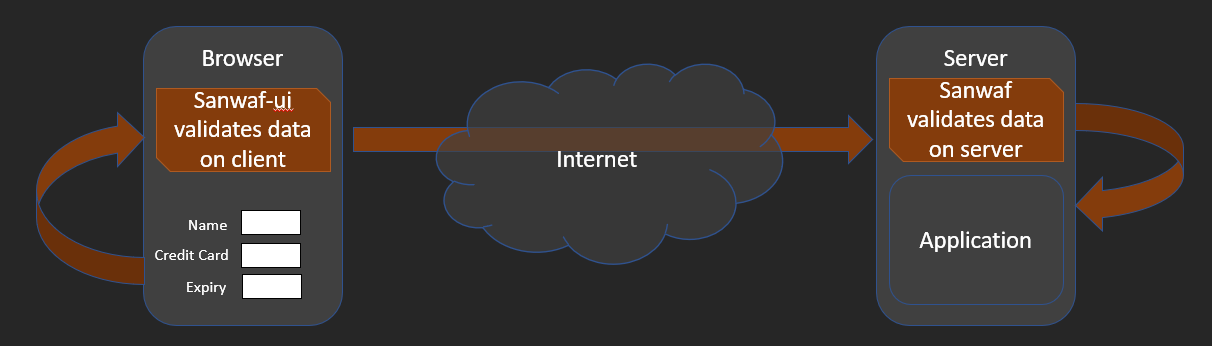
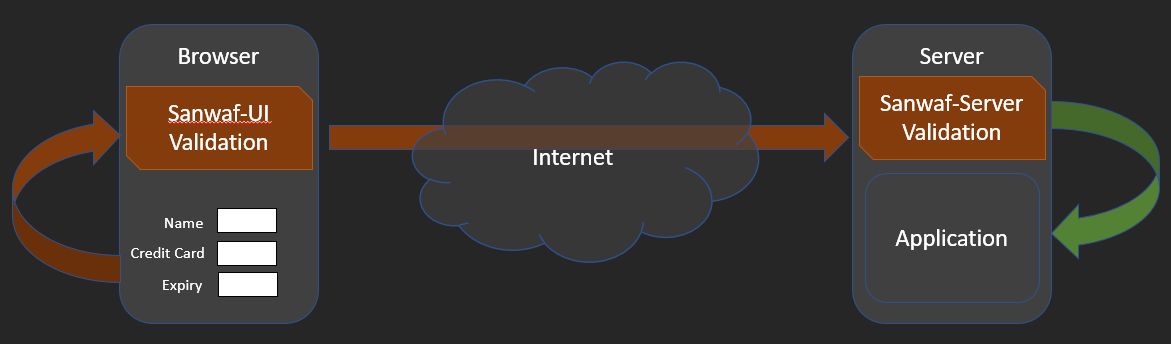
cleanup

diff --git a/sanwaf-ui-guide.html b/sanwaf-ui-guide.html
@@ -7,13 +7,13 @@
 
     <link rel="stylesheet" type="text/css" href="sanwaf-ui-guide.css" media="screen" />
     
-    <!-- Sanwaf-ui code - STEP 1. import sanwaf-ui.js -->
+    <!-- Sanwaf-UI code - STEP 1. import sanwaf-ui.js -->
     <script src='sanwaf-ui-min-latest.js'></script>
 
-    <!-- Sanwaf-ui code - STEP 2. import sanwaf-ui.css (optional see STEP 2a. below) -->
+    <!-- Sanwaf-UI code - STEP 2. import sanwaf-ui.css (optional see STEP 2a. below) -->
     <link rel="stylesheet" type="text/css" href="sanwaf-ui.css" media="screen" />  
     
-    <!-- Sanwaf-ui code - STEP 2a. to use a use custom css see <div id="sanwafUiConfig" .../> for how to override settings
+    <!-- Sanwaf-UI code - STEP 2a. to use a use custom css see <div id="sanwafUiConfig" .../> for how to override settings
     	                           for this example we define a  custom.css file to be used instead of the sanwaf-ui.css file
     	                           to use this custom file, uncomment the div sanwafUiConfig below and review the 2nd block -->
     <link rel="stylesheet" type="text/css" href="custom.css" media="screen" />  
@@ -24,13 +24,13 @@
     </style> 
   </head>
 
-    <!-- Sanwaf-ui code - STEP 3. optional. configure sanwaf-ui -->
-    <!-- NOTE that if you uncomment the following div block, the CSS specified in 'Sanwaf-ui code - STEP 2a.' (above) 
-         and the div id wrapper & div id for the sanwaf errors specified in 'Sanwaf-ui code - STEP 2a.' (below)  will be used -->
-    <!-- Sanwaf-ui code - 1st block below - override sanwaf-ui default actions -->
-    <!-- Sanwaf-ui code - 2nd block below - override default class's used by sanwaf-ui -->
-    <!-- Sanwaf-ui code - 3rd block below - override sanwaf-ui default attribute error messages -->
-    <!-- Sanwaf-ui code - 4th block below - override default data type error messages -->
+    <!-- Sanwaf-UI code - STEP 3. optional. configure sanwaf-ui -->
+    <!-- NOTE that if you uncomment the following div block, the CSS specified in 'Sanwaf-UI code - STEP 2a.' (above) 
+         and the div id wrapper & div id for the sanwaf errors specified in 'Sanwaf-UI code - STEP 2a.' (below)  will be used -->
+    <!-- Sanwaf-UI code - 1st block below - override sanwaf-ui default actions -->
+    <!-- Sanwaf-UI code - 2nd block below - override default class's used by sanwaf-ui -->
+    <!-- Sanwaf-UI code - 3rd block below - override sanwaf-ui default attribute error messages -->
+    <!-- Sanwaf-UI code - 4th block below - override default data type error messages -->
 	<!-- 
     <div id="sanwafUiConfig" style="display:none"
       data-sw-numErrorsToDisplay="-1" 
@@ -73,12 +73,12 @@
 	-->
     
   <body>
-    <h1 id="top" style="text-align: center;">Sanwaf-ui.js Demo</h1>
-    <h2 id="whatissanwaf">What is Sanwaf &amp; Sanwaf-ui?</h2>
+    <h1 id="top" style="text-align: center;">Sanwaf User Guide</h1>
+    <h2 id="whatissanwaf">What is Sanwaf-Server &amp; Sanwaf-UI?</h2>
     <table class="table-instructions">
-      <tr><td>Sanwaf-server is a Sanitation Web Application Firewall. Sanwaf-server runs on the server</td></tr>
-      <tr><td>Sanwaf-ui is a Sanitation Web Application Firewall that runs on the browser</td></tr>
-      <tr><td>Sanwaf-server &amp; Sanwaf-ui can be used independently or together</td></tr>
+      <tr><td><a href="https://github.com/bernardo1024/Sanwaf-Server" target=”_blank”>Sanwaf-Server</a> is a Sanitation Web Application Firewall. Sanwaf-Server runs on the server</td></tr>
+      <tr><td><a href="https://github.com/bernardo1024/Sanwaf-UI" target=”_blank”>Sanwaf-UI</a> is a Sanitation Web Application Firewall that runs on the browser</td></tr>
+      <tr><td>Sanwaf-Server &amp; Sanwaf-UI can be used independently or together</td></tr>
       <tr><td>when used together, they provide a code-free declarative validation system on both the client &amp; server</td></tr>
       <tr><td></td></tr>
     </table>
@@ -87,14 +87,14 @@
     <br/>
     <h2>Sample Form</h2>
     
-    <!-- Sanwaf-ui code - uses the default values from the sanwafuiconfig hiddent element for wrapper & error table -->
+    <!-- Sanwaf-UI code - uses the default values from the sanwafuiconfig hiddent element for wrapper & error table -->
     <div id="sanwafuierrorwrapper" style="display: none;">
       <b>Errors Detected</b>
       <div id="sanwafuierrortable"></div>
       <input type="button" value="hide errors" onclick="document.getElementById('sanwafuierrorwrapper').style.display='none';"/>
     </div>
     
-    <!-- Sanwaf-ui code - STEP 2a. Part 2. See <div id="sanwafUiConfig" .../> above for how to override settings in the 1st block
+    <!-- Sanwaf-UI code - STEP 2a. Part 2. See <div id="sanwafUiConfig" .../> above for how to override settings in the 1st block
     							   This allows you to specify any div id wrapper and div id for the sanwaf errors to be displayed
     							   The following div will be used if you uncomment the div sanwafUiConfig above -->
     <div id="pageErrors" style="display: none;">
@@ -103,7 +103,7 @@
       <input type="button" value="hide errors" onclick="document.getElementById('pageErrors').style.display='none';"/>
     </div>
     
-    <!-- Sanwaf-ui code - STEP 4. add sanwaf attributes (data-sw-*) to configure elements;  -->
+    <!-- Sanwaf-UI code - STEP 4. add sanwaf attributes (data-sw-*) to configure elements;  -->
     <form id="testform" method="post" action="./someEndPoint">
       <table class="table-instructions">
         <tr>
@@ -112,7 +112,7 @@
           <td><b>Description</b></td>
         </tr>
         <tr>
-          <!-- Sanwaf-ui code - Note that the label's 'for' attribute is used to set the label association to the input
+          <!-- Sanwaf-UI code - Note that the label's 'for' attribute is used to set the label association to the input
                                 See next the input below to associate the label using an attribute in the input itself -->	
           <td><label for="telephone">Telephone number</label></td>  
           <td><input type="text" id="telephone" name="telephone" size="20" data-sw-display="Telephone Number" data-sw-type="f{(###) ###-####}" data-sw-required="true" /></td>
@@ -120,14 +120,14 @@
         </tr>
         <tr>
           <td><label id="zipPostalCodeLabel">Zip/Postal Code</label></td>  
-          <!-- Sanwaf-ui code - Note the above label does not use the label's 'for' attribute.  
+          <!-- Sanwaf-UI code - Note the above label does not use the label's 'for' attribute.  
           						See below the 'data-sw-label-id' attribute that associates a label to the input.
           						Also note the use of using multiple formats in a single format field  -->	
           <td><input type="text" id="zippostalcode" name="zippostalcode" size="20" data-sw-display="Zip or Postal Code" data-sw-type="f{#####||#####-####||A#A-#A#}" data-sw-label-id="zipPostalCodeLabel" data-sw-required="true" data-sw-err-msg="Format must be 5 digit or 5-4 digit US Zip Code format, or Canadian Postal Code Format"/></td>
           <td>Required. format: "##### || #####-#### || A#A-#A#"</td>
         </tr>
         <tr>
-          <!-- Sanwaf-ui code - Password fields should use the type 'o' (OPEN) to allow any characters.  
+          <!-- Sanwaf-UI code - Password fields should use the type 'o' (OPEN) to allow any characters.  
                                 Type 's' will run regex's on the server that might interfere with a password.
                                 Note that password field does not set the data-sw-display attribute, 
                                 so the associated label will be used instead.  
@@ -138,43 +138,43 @@
         </tr>
         <tr>
           <td><label id="confirmPasswordLabel">Confirm Password</label></td>
-          <!-- Sanwaf-ui code - Note the 'data-sw-related' attribute that makes the 'confirmPassword' required if the password element is entered. 
+          <!-- Sanwaf-UI code - Note the 'data-sw-related' attribute that makes the 'confirmPassword' required if the password element is entered. 
           					    Additionally, the values must equal each other  as the relationship is "=" -->  
           <td><input type="password" id="confirmPassword" name="confirmPassword" size="20" data-sw-type="o" data-sw-related="password:=" data-sw-max-length="30" data-sw-min-length="8" data-sw-label-id="confirmPasswordLabel" /></td>
           <td>Max = 10 chars, Min = 4 chars. Required only if above field entered</td>
         </tr>
         <tr>
           <td><label for="haveCar">Do you own a car?</label></td>
-          <!-- Sanwaf-ui code - Note that the 'haveCar' field only uses the element name attribute and not the id  -->	
+          <!-- Sanwaf-UI code - Note that the 'haveCar' field only uses the element name attribute and not the id  -->	
           <td><select size="1" name="haveCar" ><option value="Yes">Yes</option><option value="No" selected="selected">No</option></select></td>
           <td>If value selected = &quot;yes&quot; Car Model must be entered</td>
         </tr>
         <tr>
           <td><label for="carModel">Car Model</label></td>
-          <!-- Sanwaf-ui code - Note the 'data-sw-related' attribute that makes the 'carModel' element required if the 'haveCar' element have the value of 'Yes'. 
+          <!-- Sanwaf-UI code - Note the 'data-sw-related' attribute that makes the 'carModel' element required if the 'haveCar' element have the value of 'Yes'. 
           						Here we are using the element name, but you can use either element name or element id. -->  
           <td><input type="text" name="carModel" size="20" data-sw-display="Car Model" data-sw-type="s" data-sw-max-length="30" data-sw-min-length="0" data-sw-related="haveCar:Yes" data-sw-err-msg="Must be entered if you own a car" /></td>
           <td>If car model =  &quot;yes&quot;, this element is required</td>
         </tr>
         <tr>
           <td><label for="creditcard">Credit Card number</label></td>
-          <!-- Sanwaf-ui code - Note that a format data type would be better for visa numbers, but here we are illustrating the numeric data type -->  
+          <!-- Sanwaf-UI code - Note that a format data type would be better for visa numbers, but here we are illustrating the numeric data type -->  
           <td><input type="text" id="creditcard" name="creditcard" size="20" data-sw-display="Credit Card Number" data-sw-type="f{#[3,4,5,6]###-####-####-####}" data-sw-err-msg="Must be Numeric 16 digits and expiry must be supplied" /></td>
           <td>Must have the format: #[3,4,5,6]###-####-####-####</td>
         </tr>
         <tr>
           <td><label for="visaExpirationDate">Expiry</label></td>
-          <!-- Sanwaf-ui code - Note that the expiry date is required if the visa number is entered (see 'data-sw-related' attribute below) -->  
+          <!-- Sanwaf-UI code - Note that the expiry date is required if the visa number is entered (see 'data-sw-related' attribute below) -->  
           <td><input type="text" id="visaExpirationDate" name="visaExpirationDate" size="20" data-sw-display="Expiry" data-sw-type="f{#[1-12] / #[yy-yy(+10)]}" data-sw-related="visa" /></td>
           <td>Must have a valid format of #[1-12] / #[yy-yy(+10)].  Required if Visa number is entered</td>
         </tr>
         <tr>
           <td><label for="amount">Purchase Amount</label></td>
-          <!-- Sanwaf-ui code - Note the 'data-sw-max-value' and 'data-sw-min-value' that limits the range that can be entered -->  
+          <!-- Sanwaf-UI code - Note the 'data-sw-max-value' and 'data-sw-min-value' that limits the range that can be entered -->  
           <td><input type="text" id="amount" name="amount" size="20" data-sw-display="Purchase Amount" data-sw-type="n" data-sw-max-value="1000" data-sw-min-value="10" /></td>
           <td>Must be numeric value between 10-1000 </td>
         </tr>
-        <!-- Sanwaf-ui code - STEP 5. call sanwaf-ui to validate form: isSanwafUiFormValid(testform)  -->
+        <!-- Sanwaf-UI code - STEP 5. call sanwaf-ui to validate form: isSanwafUiFormValid(testform)  -->
         <tr>
         	<td></td><td><input type="button" value="Validate" onClick="return isSanwafUiFormValid(testform)"/></td>
         	<td>To custom manage errors,<br/>call the '<b>sanwafGetFormErrors(form)</b>' method: <input type="button" value="get errors" onClick="alert(sanwafGetFormErrors(testform))"/><br/>A json string of errors will be returned &amp; no UI rendering will occur<br/>Use the '<b>sanwafGetElementErrors(elem)</b>' method to retrieve the json errors for an element</td></tr>
@@ -212,7 +212,7 @@
 		}
       }
     </script>
-    <h3>Change Sanwaf-ui Error Behavior</h3>
+    <h3>Change Sanwaf-UI Error Behavior</h3>
     <table class="table-compact">
       <tr>
         <td><input type="checkbox" id="hoverOnLabel" onClick="togleDisplayType(true)" checked/><label for="hoverOnLabel">hover on Label</label></td>
@@ -230,16 +230,16 @@
     
     <br/>
     <br/>
-    <h1>Implementing Sanwaf &amp; Sanwaf-ui</h1>
+    <h1>Implementing Sanwaf-Server &amp; Sanwaf-UI</h1>
     <table class="table-instructions">
-      <tr><td>1.</td><td>Configure Sanwaf-ui on html pages (instruction in this guide)</td></tr>
-      <tr><td>2.</td><td><a href="https://github.com/bernardo1024/Sanwaf-UI-2-Server" target="_blank">Run the Sanwaf-ui-2-server script</a> to generate XML consumed by Sanwaf-Server for server-side validation</td></tr>
+      <tr><td>1.</td><td>Configure Sanwaf-UI on html pages (instruction in this guide)</td></tr>
+      <tr><td>2.</td><td><a href="https://github.com/bernardo1024/Sanwaf-UI-2-Server" target="_blank">Run the Sanwaf-UI-2-server script</a> to generate XML consumed by Sanwaf-Server for server-side validation</td></tr>
       <tr><td>3.</td><td><a href="https://github.com/bernardo1024/SanWaf" target="_blank">Add Sanwaf-Server</a> to your application</td></tr>
     </table>
     <br/>
     <br/>
-    <h2>Configuring Sanwaf-ui</h2>
-    View the source of this page to and search for "Sanwaf-ui code - STEP" to see examples of configuring sanwaf-ui (all 6 steps) 
+    <h2>Configuring Sanwaf-UI</h2>
+    View the source of this page to and search for "Sanwaf-UI code - STEP" to see examples of configuring Sanwaf-UI (all 6 steps) 
     <br/>
     <br/>
     <img src="sanwaf-ui-components.png" width="50%" height="50%"> 
@@ -250,13 +250,13 @@
         <td>
           <table  class="table-instructions-inner">
             <tr><td></td><td>&lt;script src="<a href="sanwaf-ui.js" target="_blank">sanwaf-ui.js</a>"&gt;&lt;/script&gt;</td></tr>
-            <tr><td></td><td>this makes the sanwaf-ui code available for use on your page</td></tr>
+            <tr><td></td><td>this makes the Sanwaf-UI code available for use on your page</td></tr>
           </table>
         </td>
       </tr>
       <tr>
         <td>2.</td>
-        <td>import sanwaf-ui CSS (optional)</td>
+        <td>import Sanwaf-UI CSS (optional)</td>
         <td>
           <table  class="table-instructions-inner">
             <tr><td></td><td>&lt;link rel="stylesheet" type="text/css" href="<a href="sanwaf-ui.css" target="_blank">sanwaf-ui.css</a>" media="screen" /&gt;</td></tr>
@@ -266,18 +266,18 @@
       </tr>
       <tr>
         <td>3.</td>
-        <td>Configure sanwaf-ui (optional)</td>
+        <td>Configure Sanwaf-UI (optional)</td>
         <td>
           <table  class="table-instructions-inner">
-            <tr><td></td><td>add a hidden element named "<a href="#sanwafuiconfig"><b>sanwafuiconfig</b></a>" &amp; configure Sanwaf-ui</td></tr>
-            <tr><td></td><td>if you want to override sanwaf-ui defaults, this element must be declared</td></tr>
+            <tr><td></td><td>add a hidden element named "<a href="#sanwafuiconfig"><b>sanwafuiconfig</b></a>" &amp; configure Sanwaf-UI</td></tr>
+            <tr><td></td><td>if you want to override Sanwaf-UI defaults, this element must be declared</td></tr>
 
           </table>
         </td>
       </tr>
       <tr>
         <td>4.</td>
-        <td>Set <a href="#sanwafuitags">sanwaf-ui attributes</a> per element</td>
+        <td>Set <a href="#sanwafuitags">Sanwaf-UI attributes</a> per element</td>
         <td>
           <table  class="table-instructions-inner">
             <tr><td>&lt;input</td><td>type="text" id="carModel" size="20" </td></tr>
@@ -288,13 +288,13 @@
             <tr><td></td><td><b>data-sw-required</b>="true"</td></tr>
             <tr><td></td><td><b>data-sw-related</b>="haveCar:Yes"</td></tr>
             <tr><td></td><td><b>data-sw-err-msg</b>="Car Model must be entered if you own a car"</td></tr>
-            <tr><td>/&gt;</td><td>&lt;!-- see below for <a href="#sanwafuitags">sanwaf-ui attribute</a> details --&gt;</td></tr>
+            <tr><td>/&gt;</td><td>&lt;!-- see below for <a href="#sanwafuitags">Sanwaf-UI attribute</a> details --&gt;</td></tr>
           </table>
         </td>
       </tr>
       <tr>
         <td>5a.</td>
-        <td>Call Sanwaf-ui method to validate form</td>
+        <td>Call Sanwaf-UI method to validate form</td>
         <td>
           <table  class="table-instructions-inner">
             <tr><td>isSanwafUiFormValid(form)</td><td>checks the elements on a form for errors. returns true/false</td></tr>
@@ -304,7 +304,7 @@
       </tr>
       <tr>
         <td>5b.</td>
-        <td>OR Call Sanwaf-ui method to get errors in JSON format</td>
+        <td>OR Call Sanwaf-UI method to get errors in JSON format</td>
         <td>
           <table  class="table-instructions-inner">
             <tr><td>sanwafGetFormErrors(form)</td><td>checks the elements on a form for errors. returns all errors found in JSON format</td></tr>
@@ -314,11 +314,11 @@
       </tr>
       <tr>
         <td>6.</td>
-        <td>Initialize sanwaf-ui</td>
+        <td>Initialize Sanwaf-UI</td>
         <td>
           <table  class="table-instructions-inner">
             <tr><td>&lt;script&gt; initSanwafui(); &lt;/script&gt;</td></tr>
-            <tr><td>script scans page for sanwaf-ui attributes setting events on elements</td></tr>
+            <tr><td>script scans page for Sanwaf-UI attributes setting events on elements</td></tr>
           </table>
         </td>
       </tr>
@@ -326,7 +326,7 @@
     <br/>
     <br/>
     <h2 id="sanwafuiconfig">The "sanwafuiconfig" Hidden Element</h2>
-    A hidden "<b>sanwafuiconfig</b>" element is used to configure the Sanwaf-ui behavior
+    A hidden "<b>sanwafuiconfig</b>" element is used to configure the Sanwaf-UI behavior
     <br/>
     <br/>
     <b>Optional Control Attributes</b>
@@ -336,8 +336,8 @@
       <tr><td>data-sw-numErrorsToDisplay</td><td>Number of error messages to display.  Specify -1 to display all errors<br/><b>Defaults to:</b> -1</td></tr>
       <tr><td><a href="#sanwafuiactions">data-sw-errorActions</a></td><td>Action(s)s to take when an error is found on a submit<br/><b>Defaults to:</b> hoverOnLabel,hoverShowLabel,colorLabel,colorInput</td></tr>
       <tr><td><a href="#sanwafuiactions">data-sw-blurActions</a></td><td>Action(s) to take when a field is blurred<br/><b>Defaults to:</b> hoverOnLabel,hoverShowLabel,colorLabel,colorInput</td></tr>
-      <tr><td>data-sw-showOnPageElementId</td><td>Optional element to wrap the sanwaf-ui errors that will be made visible if errors are detected<br/><b>Defaults to:</b> sanwafuierrorwrapper</td></tr>
-      <tr><td>data-sw-showOnPageSanwafTableElementId</td><td>Optional element to set a table of sanwaf-ui errors (configurable by css)<br/><b>Defaults to:</b> sanwafuierrortable</td></tr>
+      <tr><td>data-sw-showOnPageElementId</td><td>Optional element to wrap the Sanwaf-UI errors that will be made visible if errors are detected<br/><b>Defaults to:</b> sanwafuierrorwrapper</td></tr>
+      <tr><td>data-sw-showOnPageSanwafTableElementId</td><td>Optional element to set a table of Sanwaf-UI errors (configurable by css)<br/><b>Defaults to:</b> sanwafuierrortable</td></tr>
     </table>
 
     <b>Optional CSS Class Overrides</b>
@@ -350,8 +350,8 @@
       <tr><td>data-sw-tooltipClass</td><td>The tooltip css class applied to the label</td></tr>
       <tr><td>data-sw-tooltipTextClass</td><td>Tooltip text css specification</td></tr>
       <tr><td>data-sw-sanwafErrorTableClass</td><td>When displaying errors on the page, a table in inserted using this css class</td></tr>
-      <tr><td>data-sw-sanwafErrorTableTdKeyClass</td><td>The css class for the key section of the sanwaf-ui error table</td></tr>
-      <tr><td>data-sw-sanwafErrorTableTdDescClass</td><td>The css class for the value section of the sanwaf-ui error table</td></tr>
+      <tr><td>data-sw-sanwafErrorTableTdKeyClass</td><td>The css class for the key section of the Sanwaf-UI error table</td></tr>
+      <tr><td>data-sw-sanwafErrorTableTdDescClass</td><td>The css class for the value section of the Sanwaf-UI error table</td></tr>
     </table>
     
     <b>Optional Error Message Attributes</b> (default values will be used if not specified)
@@ -390,15 +390,15 @@
       <tr><td><b>Action</b></td><td><b>Description</b></td></tr>
       <tr><td>hoverOnLabel</td><td>Add a hover element to you label that is associated with the 'for=' attribute of the label<br/>The hover is configurable via the .sawafuiTooltip elements in the  sanwafy-ui.css file</td></tr>
       <tr><td>hoverShowLabel</td><td>Include the associated label text in the hover message</td></tr>
-      <tr><td>colorLabel</td><td>Change the color of the label to the value specified in the .sanwafuiLabel css configuration in the sanwaf-ui.css file</td></tr>
-      <tr><td>colorInput</td><td>Change the color of the input element to the value specified in the .sanwafinput css configuration in the sanwaf-ui.css file</td></tr>
+      <tr><td>colorLabel</td><td>Change the color of the label to the value specified in the .sanwafuiLabel css configuration in the Sanwaf-UI.css file</td></tr>
+      <tr><td>colorInput</td><td>Change the color of the input element to the value specified in the .sanwafinput css configuration in the Sanwaf-UI.css file</td></tr>
       <tr><td>showOnPage</td><td>Element id to be made visible if an error is detected (to provide custom message)</td></tr>
-      <tr><td>showOnPageSanwafTable</td><td>Element id to insert the Sanwaf-ui table of errors</td></tr>
-      <tr><td>alertWithPopup</td><td>Show an alert dialog containing the Sanwaf-ui errors</td></tr>
+      <tr><td>showOnPageSanwafTable</td><td>Element id to insert the Sanwaf-UI table of errors</td></tr>
+      <tr><td>alertWithPopup</td><td>Show an alert dialog containing the Sanwaf-UI errors</td></tr>
     </table>
     <br/>
     <br/>
-    <h2 id="sanwafuitags">Sanwaf-ui Elements Attributes</h2>
+    <h2 id="sanwafuitags">Sanwaf-UI Elements Attributes</h2>
     <table class="table-instructions">
       <tr><td><b>Attribute</b></td><td><b>Description</b></td></tr>
       <tr><td>data-sw-display</td><td>Name Associated with the widget that will be used for display in error messages.</td></tr>
@@ -551,7 +551,7 @@
     </table>
     <br/>    
     
-    <h3>Test Sanwaf-ui Data Types</h3>
+    <h3>Test Sanwaf-UI Data Types</h3>
     <form id="datatypes" method="post" action="./someEndPoint">
       <table class="table-compact-normal-font">
         <tr>
@@ -617,7 +617,7 @@
     <table class="table-instructions-inline-block">
       <tr><td>The Format data type sets the element to use a Format</td><td></td></tr>
       <tr><td>A Format is way to best fit a user's entry into a mask</td><td></td></tr>
-      <tr><td>Sanwaf-ui automatically sets an oninput event handler to elements that have the format data type.  the event handler formats as the user enters data</td><td></td></tr>
+      <tr><td>Sanwaf-UI automatically sets an oninput event handler to elements that have the format data type.  the event handler formats as the user enters data</td><td></td></tr>
       <tr><td>Four special characters are provided to be used in formats:</td><td></td></tr>
       <tr><td>&nbsp;&nbsp;<b>#</b></td><td> - accepts a number</td><td></td></tr>
       <tr><td>&nbsp;&nbsp;<b>#[ ]</b></td><td> - accepts a number within a range: #[1-12]<br/> - accepts a number meeting a specified set of values: #[4,5,6]<br/> - accepts a number bound by date settings: #[yy-yy(+10)]<br/>&nbsp;&nbsp;&nbsp;Supported date variables include: yy, yyyy, mm, dd<br/>&nbsp;&nbsp;&nbsp;&nbsp;&nbsp;Format: #[ variable( &lt;+/-> # ) ]<br/>&nbsp;&nbsp;&nbsp;&nbsp;&nbsp;For example: #[ yy( -10 ) - yy( +10 ) ]  - accepts a year in 'yy' format in the range of up to 10 years old to 10 years in the future</td><td></td></tr>
@@ -696,7 +696,7 @@
     <h3 id="dependent-format-data-type">Dependent Format Data Type</h3>
     <table class="table-instructions-inline-block">
       <tr><td>The Dependent Format data type sets the element to use a Format when a different element equals a specific value</td><td></td></tr>
-      <tr><td>Sanwaf-ui automatically sets an oninput event handler to elements that have the dependent format data type.  the event handler formats as the user enters data</td><td></td></tr>
+      <tr><td>Sanwaf-UI automatically sets an oninput event handler to elements that have the dependent format data type.  the event handler formats as the user enters data</td><td></td></tr>
       <tr><td>See the Format Data type for instructions on creating formats</td><td></td></tr>
       <tr><td>The dependent format syntax is as follows </td><td></td></tr>
       <tr><td>&nbsp;&nbsp;d{ element : value1 = format1 ; value2 = format2 }</td><td></td></tr>
@@ -724,7 +724,7 @@
     </table>
 	<br/>
 
-    <h3 id="data-sw-related">Sanwaf-ui Attribute 'data-sw-related' - Element Relationships</h3>
+    <h3 id="data-sw-related">Sanwaf-UI Attribute 'data-sw-related' - Element Relationships</h3>
     <table class="table-instructions-inline-block">
       <tr><td>The "data-sw-related" attribute sets element relationships.  Use this attribute to specify which fields are mandatory based on other related elements</td><td></td></tr>
       <tr><td>For example, if you want 2 password fields, pass1 &amp; pass2, to equal each other, you would set the "data-sw-related" attribute in pass2 as such:</td><td></td></tr>
@@ -829,17 +829,17 @@
     </table>
 
     <br/>
-    <h2>Configuring how Sanwaf-ui Looks: Sanwaf-ui.css</h2>
-    Use the sanwaf-ui.css file to configure the look and feel of sanwaf-ui in your application
+    <h2>Configuring how Sanwaf-UI Looks: Sanwaf-UI.css</h2>
+    Use the Sanwaf-UI.css file to configure the look and feel of Sanwaf-UI in your application
     <br/>
-    You can override all of the classes defined in the sanwaf-ui.css file by overriding them in the <a href="#sanwafuiconfig"> sanwafuiconfig</a> hidden element
+    You can override all of the classes defined in the Sanwaf-UI.css file by overriding them in the <a href="#sanwafuiconfig"> sanwafuiconfig</a> hidden element
     <table class="table-instructions">
       <tr><td><b>Element</b></td><td><b>Description</b></td></tr>
       <tr><td>sanwafuiLabel</td><td>Sets the color for the label of the error'd element</td></tr>
       <tr><td>sanwafinput</td><td>Sets the color of the input text of the error'd element</td></tr>
       <tr><td>sanwafuiErrorTable</td><td>When displaying errors on the page, a table in inserted using this css class</td></tr>
-      <tr><td>sanwafuiErrorTableTdKey</td><td>The &lt;td&gt; css class for the key section of the sanwaf-ui error table</td></tr>
-      <tr><td>sanwafuiErrorTableTdDesc</td><td>The &lt;td&gt; css class for the value section of the sanwaf-ui error table</td></tr>
+      <tr><td>sanwafuiErrorTableTdKey</td><td>The &lt;td&gt; css class for the key section of the Sanwaf-UI error table</td></tr>
+      <tr><td>sanwafuiErrorTableTdDesc</td><td>The &lt;td&gt; css class for the value section of the Sanwaf-UI error table</td></tr>
       <tr><td>sawafuiTooltip</td><td>The tooltip css class applied to the label</td></tr>
       <tr><td>sawafuiTooltip .tooltiptext</td><td>Tooltip text css specification</td></tr>
       <tr><td>sawafuiTooltip .tooltiptext::after</td><td>Tooltip after specification</td></tr>
